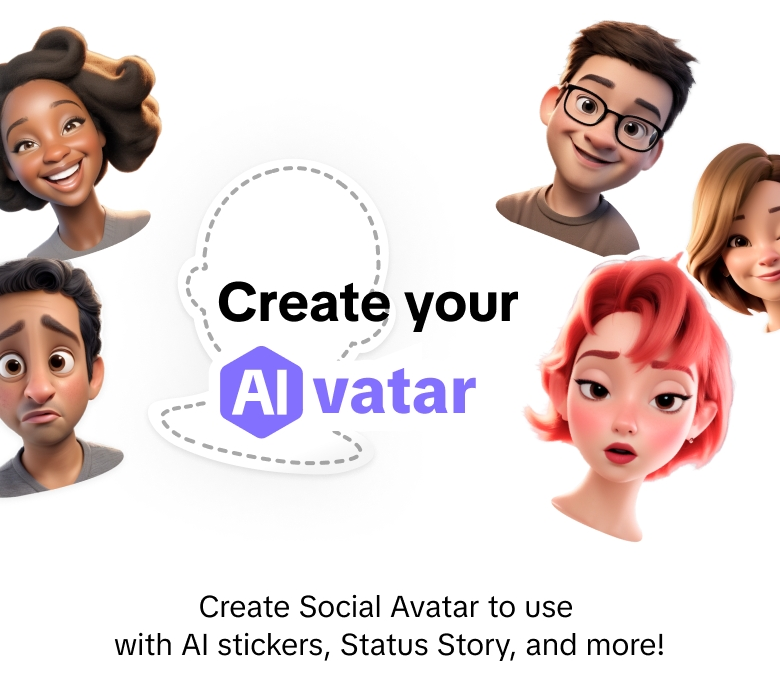
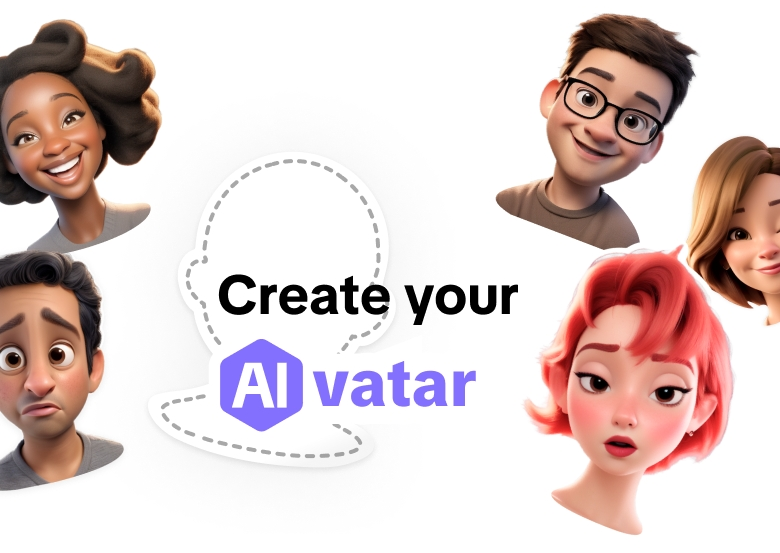
resize im

diff --git a/index.html b/index.html
@@ -210,7 +210,7 @@
           <tr>
             <a id="tiktok-ai-self"></a>
             <td style="padding:20px;width:30%;vertical-align:middle">
-              <img src='images/products/2024-TikTok-AISelf-2.png' width="110%">
+              <img src='images/products/2024-TikTok-AISelf-2.jpg' width="110%">
             </td>
             <td style="padding:25px;width:75%;vertical-align:middle">
               <a target="_blank" href=https://www.tiktok.com/@wavewyld/video/7325186237533310213?lang=en>
